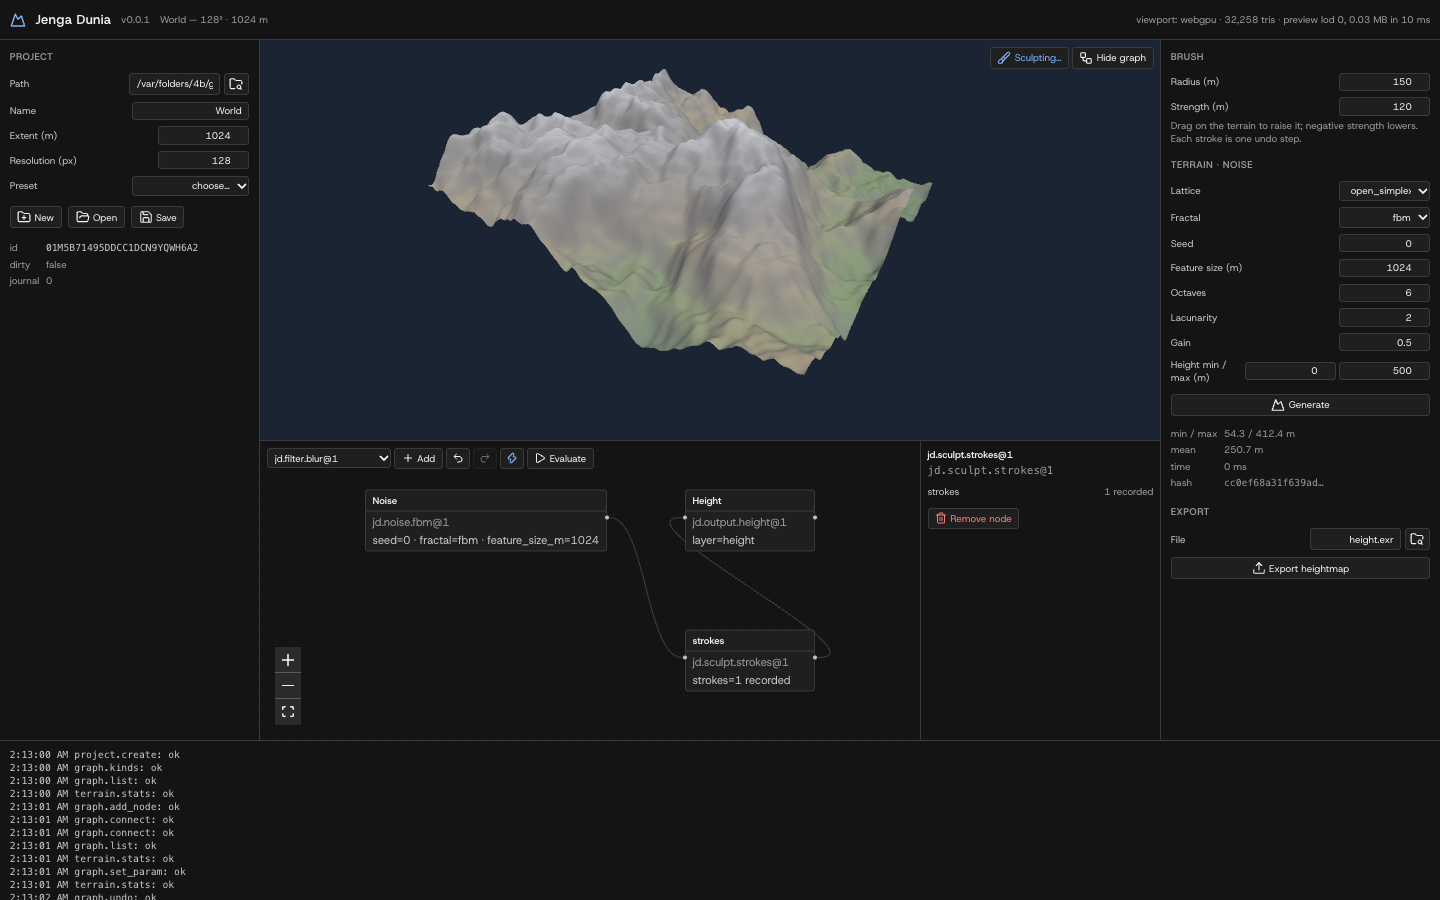
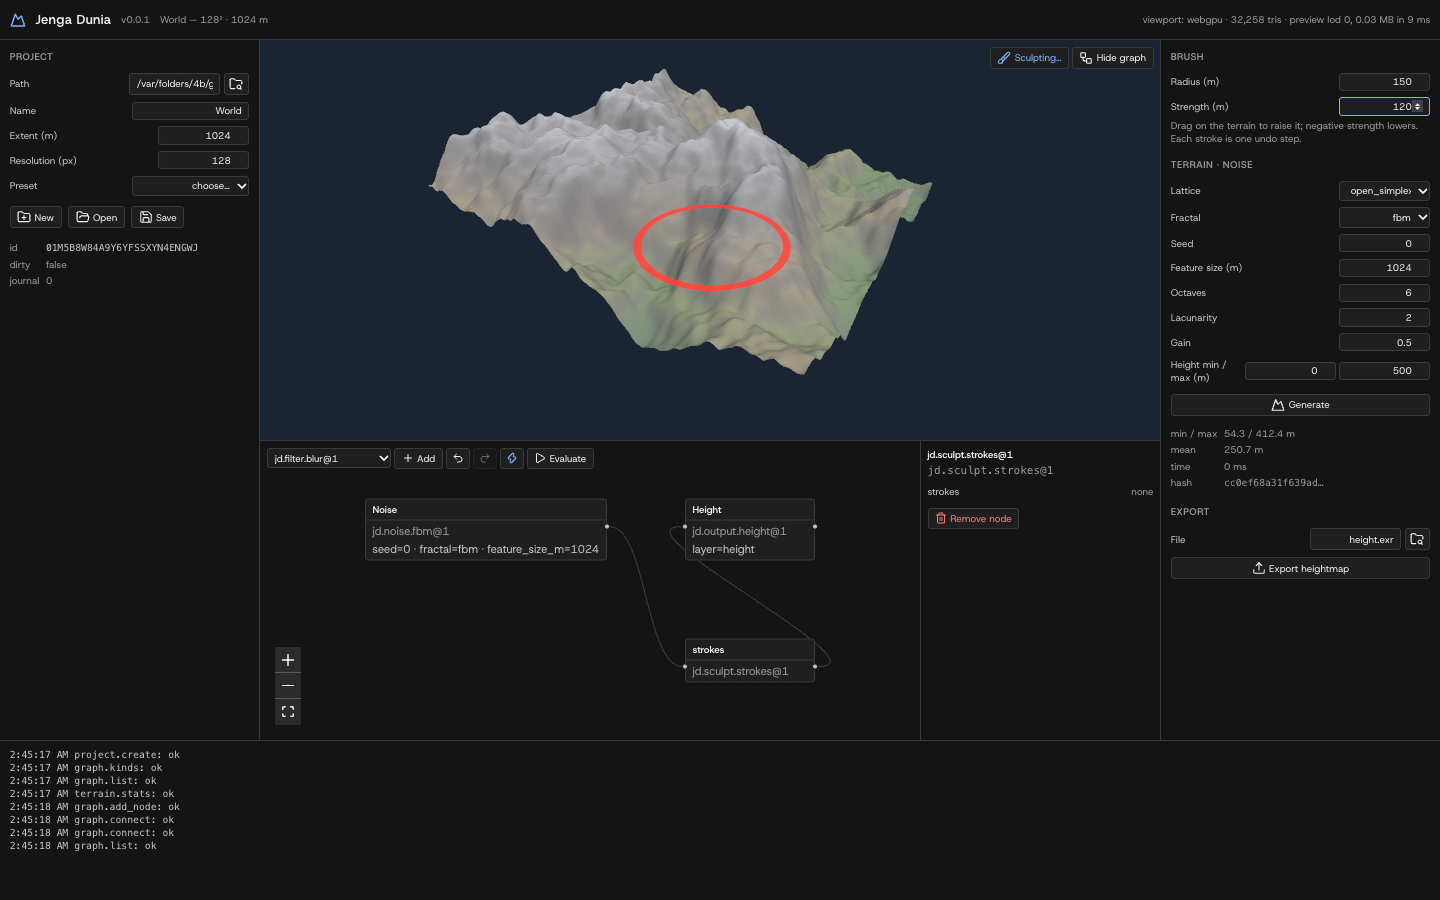
feat(desktop): brush ring cursor in sculpt mode
A red ring scaled to the brush radius follows the pointer over the terrain while sculpting
(raycast on hover, lifted above the surface, no depth test). The viewport host exposes the
ring's layer-metre position as data-brush for tests; the sculpt e2e asserts it and captures
the tutorial image with the ring visible.

diff --git a/apps/desktop/src/viewport/TerrainView.tsx b/apps/desktop/src/viewport/TerrainView.tsx
@@ -16,7 +16,7 @@ interface Props {
   onInfo?: (info: ViewportInfo) => void;
   /** Sculpt mode: pointer drags paint a stroke on the terrain instead of orbiting. Points are
    *  reported in layer metres (u east from the west edge, v north from the south edge = row 0). */
-  sculpt?: { enabled: boolean; onStroke: (points: [number, number][]) => void };
+  sculpt?: { enabled: boolean; radiusM: number; onStroke: (points: [number, number][]) => void };
 }
 
 function isWebGPU(r: WebGPURenderer): boolean {
@@ -91,6 +91,8 @@ interface SceneState {
   scene: THREE.Scene;
   camera: THREE.PerspectiveCamera;
   mesh: THREE.Mesh<THREE.BufferGeometry, THREE.MeshStandardMaterial> | null;
+  /** Brush ring shown under the pointer in sculpt mode. */
+  brush: THREE.Mesh<THREE.RingGeometry, THREE.MeshBasicMaterial>;
   frame: number;
   backend: ViewportInfo["backend"];
   triangles: number;
@@ -128,11 +130,21 @@ export default function TerrainView({ preview, extentM, onInfo, sculpt }: Props)
     const sun = new THREE.DirectionalLight(0xffffff, 1.6);
     sun.position.set(3000, 5000, 2000);
     scene.add(sun);
+    // Brush cursor: a flat ring (unit radius, scaled per brush) lifted slightly above the surface.
+    const brush = new THREE.Mesh(
+      new THREE.RingGeometry(0.9, 1.0, 48),
+      new THREE.MeshBasicMaterial({ color: 0xff3b30, transparent: true, opacity: 0.85, side: THREE.DoubleSide, depthTest: false }),
+    );
+    brush.rotation.x = -Math.PI / 2;
+    brush.visible = false;
+    brush.renderOrder = 10;
+    scene.add(brush);
     const state: SceneState = {
       renderer,
       scene,
       camera,
       mesh: null,
+      brush,
       frame: 0,
       backend: "none",
       triangles: 0,
@@ -157,6 +169,30 @@ export default function TerrainView({ preview, extentM, onInfo, sculpt }: Props)
       // from the south edge: v = 0 at +Z/2.
       return [h.point.x + ext[0] / 2, ext[1] / 2 - h.point.z];
     };
+    // Brush cursor follows the pointer over the terrain while sculpting (also when not dragging).
+    const showBrush = (e: PointerEvent) => {
+      const sc = sculptRef.current;
+      const ext = extentRef.current;
+      if (!sc?.enabled || !state.mesh || !ext) {
+        state.brush.visible = false;
+        el.removeAttribute("data-brush");
+        return;
+      }
+      const p = hit(e);
+      if (!p) {
+        state.brush.visible = false;
+        el.removeAttribute("data-brush");
+        return;
+      }
+      const x = p[0] - ext[0] / 2;
+      const z = ext[1] / 2 - p[1];
+      // Sit just above the surface so the ring is not z-fought by the mesh (depthTest is off anyway).
+      const y = raycaster.intersectObject(state.mesh, false)[0]?.point.y ?? 0;
+      state.brush.position.set(x, y + ext[0] * 0.002, z);
+      state.brush.scale.setScalar(Math.max(1e-3, sc.radiusM));
+      state.brush.visible = true;
+      el.setAttribute("data-brush", `${p[0].toFixed(1)},${p[1].toFixed(1)}`);
+    };
     const onDown = (e: PointerEvent) => {
       dragging = true;
       if (sculptRef.current?.enabled) {
@@ -172,6 +208,7 @@ export default function TerrainView({ preview, extentM, onInfo, sculpt }: Props)
       }
     };
     const onMove = (e: PointerEvent) => {
+      showBrush(e);
       if (!dragging) return;
       if (stroke) {
         const p = hit(e);
@@ -223,6 +260,8 @@ export default function TerrainView({ preview, extentM, onInfo, sculpt }: Props)
       window.removeEventListener("pointerup", onUp);
       el.removeEventListener("pointermove", onMove);
       el.removeEventListener("wheel", onWheel);
+      state.brush.geometry.dispose();
+      state.brush.material.dispose();
       if (state.mesh) {
         state.mesh.geometry.dispose();
         state.mesh.material.dispose();

diff --git a/apps/desktop/src/App.tsx b/apps/desktop/src/App.tsx
@@ -239,7 +239,7 @@ export default function App() {
         {/* Center: viewport (top) + node graph (bottom, toggle) */}
         <main className={`relative grid bg-jd-bg-0 ${showGraph ? "grid-rows-[1fr_300px]" : "grid-rows-[1fr]"}`}>
           <div className="relative min-h-0">
-            <TerrainView preview={s.preview} extentM={s.project ? s.project.world.extent_m : null} onInfo={onInfo} sculpt={{ enabled: s.sculpting && sculptNode !== undefined, onStroke: (pts) => void s.addStroke(pts) }} />
+            <TerrainView preview={s.preview} extentM={s.project ? s.project.world.extent_m : null} onInfo={onInfo} sculpt={{ enabled: s.sculpting && sculptNode !== undefined, radiusM: s.brush.radius_m, onStroke: (pts) => void s.addStroke(pts) }} />
             <button
               className={`btn absolute top-2 right-28 ${s.sculpting ? "text-jd-accent" : ""}`}
               title={s.sculpting ? "Sculpting: drag on the terrain to paint a stroke (click to stop)" : "Sculpt: adds a stroke node before the output and paints with the brush"}

diff --git a/apps/desktop/e2e/sculpt.spec.ts b/apps/desktop/e2e/sculpt.spec.ts
@@ -40,6 +40,14 @@ test.describe("sculpting against the real core", () => {
     if (!vp) throw new Error("no viewport");
     const cx = vp.x + vp.width / 2;
     const cy = vp.y + vp.height / 2;
+    // Hovering shows the brush ring; the host reports where it sits (layer metres).
+    await page.mouse.move(cx, cy);
+    await page.mouse.move(cx + 2, cy + 2);
+    await expect(page.getByTestId("viewport")).toHaveAttribute("data-brush", /^\d+(\.\d+)?,\d+(\.\d+)?$/);
+    const brushAt = (await page.getByTestId("viewport").getAttribute("data-brush"))!.split(",").map(Number);
+    expect(brushAt[0]).toBeGreaterThan(0);
+    expect(brushAt[0]).toBeLessThan(1024);
+    await page.screenshot({ path: testInfo.outputPath("sculpt-brush.png") }); // tutorial image source
     await page.mouse.move(cx - 60, cy);
     await page.mouse.down();
     await page.mouse.move(cx + 60, cy, { steps: 12 });

diff --git a/memory/todo.md b/memory/todo.md
@@ -44,7 +44,7 @@ Conventions: `- [ ]` planned · `- [x]` done · `- [~]` in progress (add owner) 
 - [x] Ops `terrain.generate` / `terrain.stats` / `terrain.export_heightmap` + CLI `jd terrain generate --out` / `jd export heightmap`; MCP end-to-end test
 - [~] `jd-graph`: typed DAG ✔, validation (types/cycles/required/unknown) ✔, blake3 content-hash incremental evaluation + in-memory cache ✔, LOD ✔, bypass ✔, 7 node kinds ✔, journaled `graph.*` ops with pre-journal structural validation (trial copy + `validate_structure`) ✔, `graph.move_node` ✔, lod>0 → `<layer>#lod<N>` ✔, node-editor UI (React Flow: add/connect/drag/delete/inspector, e2e-tested) ✔; disk cache (`jd-cache`) layer-level ✔ (CLI can export a graph result across invocations); tile-level blobs + SQLite index + LRU eviction ☐, region/tile-level dirty sets ☐, async jobs + progress/cancel ☐, undo/redo ✔ (snapshot history, journaled `graph.restore`)
 - [~] Heightmap export: EXR f32 ✔, PNG16 ✔, RAW r16/r32 ✔ (+ JSON sidecar, flip + range conventions, round-trip tests); TIFF f32 ✔ (`tiff32`); foreign heightmap import ✔ (`jd.input.heightmap@1` + `project.import_asset`; GeoTIFF tags/nodata ☐); Unity/Unreal size presets (2ⁿ+1) ✔ (project panel preset picker)
-- [~] Stroke sculpt nodes: `jd.sculpt.strokes@1` ✔ (smooth-falloff raise/lower polylines), desktop Sculpt mode ✔ (raycast strokes, brush panel, one undo step per stroke); brush cursor/preview, smooth/flatten brushes, stroke files under `strokes/` ☐
+- [~] Stroke sculpt nodes: `jd.sculpt.strokes@1` ✔ (smooth-falloff raise/lower polylines), desktop Sculpt mode ✔ (raycast strokes, brush panel, one undo step per stroke); brush ring cursor ✔; smooth/flatten brushes, stroke files under `strokes/` ☐
 - [~] GLB export ✔ (`terrain.export_mesh` / `jd export mesh`: grid mesh, normals, UVs, flat PBR material; Khronos validator 0 errors) + glTF Validator in CI ✔; textured PBR material ☐
 - [ ] Node editor UI, generated inspectors, task monitor, diagnostics console
 - [ ] Viewport terrain LOD + PBR + sky

diff --git a/docs/user/desktop-app.md b/docs/user/desktop-app.md
@@ -88,7 +88,7 @@ Undo and redo are operations like everything else (`graph.undo` / `graph.redo`, 
 ## Tutorial: sculpting
 
 1. Click **Sculpt** (top of the viewport). If the graph has no stroke node yet, a `jd.sculpt.strokes` node is inserted in front of the output and selected; the button reads **Sculpting…** and a **Brush** panel (radius, strength in metres; negative strength digs) appears on the right.
-2. Drag on the terrain. The pointer is projected onto the surface and the path becomes one stroke (`points` in layer metres, radius, strength) appended to the node's `strokes` parameter — a journaled `graph.set_param`, so the live preview updates and **Undo** removes the whole stroke.
+2. Move over the terrain: a red ring the size of the brush follows the pointer on the surface. Drag to paint. The pointer is projected onto the surface and the path becomes one stroke (`points` in layer metres, radius, strength) appended to the node's `strokes` parameter — a journaled `graph.set_param`, so the live preview updates and **Undo** removes the whole stroke.
 3. Click **Sculpting…** to go back to orbiting. Strokes are data in `graph.json`: the CLI and MCP see the same node, and re-evaluating anywhere replays them identically.
 
 ![Sculpt mode: Sculpt button, brush panel, stroke node](images/tutorial-04-sculpt.png)
